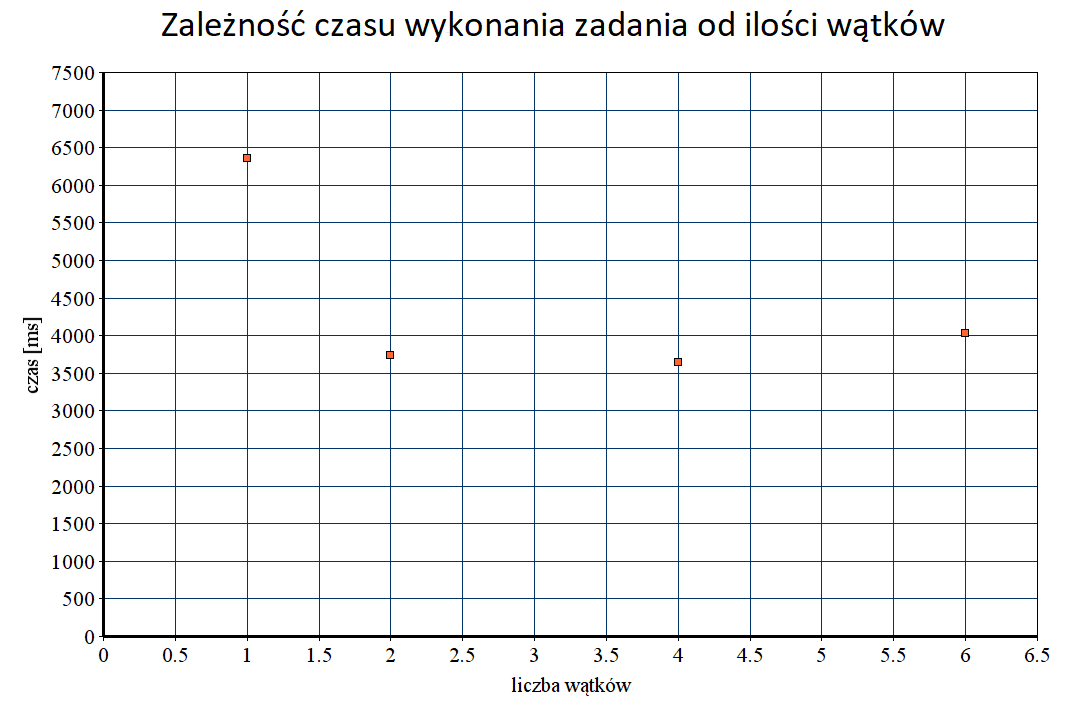
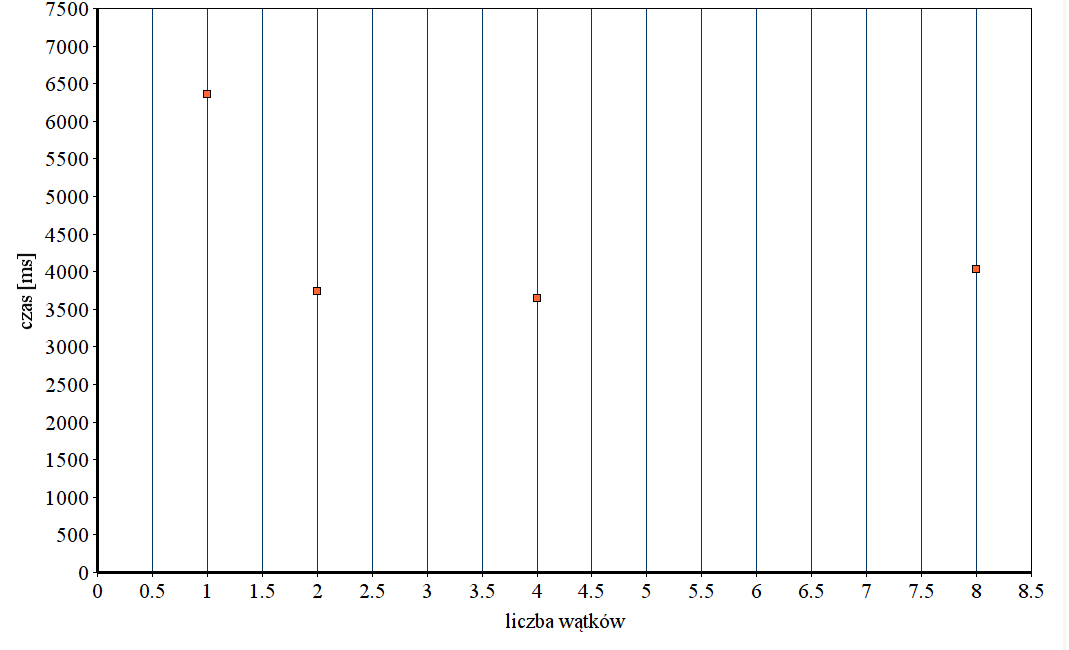
poprawki doku zad1 i zad4

diff --git a/zad1/dokumentacja/dok.tex b/zad1/dokumentacja/dok.tex
@@ -72,7 +72,7 @@ Zrównoleglono rozmywanie rzędów pikseli zadanego zdjęcia:
         }
     }
 \end{lstlisting}
-Zastosowano takie instrukcje OpenMP ponieważ:
+Zastosowano takie instrukcje OpenMP, ponieważ:
 \begin{lista}
  \item for: zrównoleglamy pętlę for (przebieg po wierszach),
  \item num threads: zrównoleglanie na zadaną w argumentach wywołania programu liczbę wątków,
@@ -80,23 +80,23 @@ Zastosowano takie instrukcje OpenMP ponieważ:
  \item private(i,j): każdy wątek dostaje kopię zmiennych przechowujących indeksy aktualnej iteracji.
 \end{lista}
 
-Domyślnie OpenMP rozdzieli pracę nad pętlą równomiernie pomiędzy wszystkie wątki. Ponieważ rozmywanie każdego piksela opiera się na tych samych działaniach (kolejne piksele nie stają się trudniejsze dto przetworzenia) to taki podział nam odpowiada.\\
-
-Zalety tego rozwiązania to: 
-\begin{lista}
- \item Dobrze zrównolegla obliczenia przy zachowaniu prostoty konfiguracji,
- \item Nie wymaga dodatkowych zasobów poza dostępnymi procesorami.
-\end{lista}
-
+Domyślnie OpenMP rozdzieli pracę nad pętlą równomiernie pomiędzy wszystkie wątki. Ponieważ rozmywanie każdego piksela opiera się na tych samych działaniach (kolejne piksele nie stają się trudniejsze do przetworzenia) to taki podział nam odpowiada.\\
 
 Umieszczony poniżej wykres (Rysunek 1) pokazuje zależność czasu działania programu od liczby wątków dla przykładowego obrazu o rozmiarze boku około 2500px na komputerze z dwoma procesorami. \\
-Jak widać czas skrócił się przy zrównolegleniu na tyle wątków, ile jest procesorów. Dalsze zwiększanie liczby wątków może tylko pogorszyć czas, ponieważ musi zostać poświęcony dodatkowy czas na przełączanie konktekstu dla poszczególnych wątków na współdzielonych procesorach.
+Jak widać czas skrócił się przy zrównolegleniu na tyle wątków, ile jest procesorów. Dalsze zwiększanie liczby wątków może tylko pogorszyć czas, ponieważ musi zostać poświęcony dodatkowy czas na przełączanie konktekstu dla poszczególnych wątków na współdzielonych procesorach. \\
+
+Kolejny wykres (Rysunek 2) pokazuje dodatkowo, że mimo posiadania dwóch procesorów i dwóch wątków nie nastąpiło idealnie dwukrotne przespieszenie - wynika to z faktu, że przydzielanie zadań wątkom i zarządzanie nimi także wymaga zasobów.
 \begin{figure}[h]
-\includegraphics[width=15cm]{wykres_zad1}
-\caption{}  
+\includegraphics[scale=0.4]{wykres_zad1}
+\caption{Zależność czasu wykonania zadania od ilości wątków}  
+\end{figure}
+\begin{figure}[h]
+\includegraphics[scale=0.4]{wykres2_zad1}
+\caption{Zależność przyspieszenia wykonywania zadania od ilości wątków w stosunku do niezrównoleglonego zadania}  
 \end{figure}
 \\
 
-Wnioski \\
-Zadanie udało się wykonać - dokonano zrównoleglenia obliczeń. Wykorzystanie OpenMP w tym przypadku (niezależne od siebie obliczenia o tej samej złożoności) było skuteczne i nie wymagało wiele konfiguracji. 
+
+\textbf{Wnioski }\\
+Zadanie udało się wykonać - dokonano zrównoleglenia obliczeń. Wykorzystanie OpenMP w tym przypadku (niezależne od siebie obliczenia o tej samej złożoności) było skuteczne i nie wymagało wiele konfiguracji, co niewątlpiwie jest dużą zaletą. 
 \end{document}

diff --git a/zad4/dokumentacja/dok.tex b/zad4/dokumentacja/dok.tex
@@ -87,7 +87,7 @@ Powyższy fragment kodu przedstawia w~jaki sposób zostało zorganizowane rozdzi
 
 Powyższy wykres przedstawia wyniki czasu obliczeń dla zestawu liczb znajdującym się na serwerze w~pliku \texttt{/home/shared/prir/primes/4.txt} -- odpowiednio dla jednego, dwóch, czterech i~ośmiu wątków. Zgodnie z~oczekiwaniami, czas obliczeń maleje wraz ze zwiększaniem liczby wątków do wykonywania obliczeń.
 
-Na rysunku numer \ref{chart-acceleration} został przedstawiony wykres przyspieszenia obliczeń dla tego zestawu danych. Z~wykresu można odczytać, że wzrost szybkości obliczeń na ośmiu wątkach w~stosunku do obliczeń sekwencyjnych jest około pięciokrotny -- jest to spowodowane tym, iż do zarządzania wątkami oraz~przydziału im zadań, potrzebna jest pewna ilości zasobów (w tym także obliczeniowe).
+Na rysunku numer 2 został przedstawiony wykres przyspieszenia obliczeń dla tego zestawu danych. Z~wykresu można odczytać, że wzrost szybkości obliczeń na ośmiu wątkach w~stosunku do obliczeń sekwencyjnych jest około pięciokrotny -- jest to spowodowane tym, iż do zarządzania wątkami oraz~przydziału im zadań, potrzebna jest pewna ilości zasobów (w tym także obliczeniowe).
 
 \begin{figure}[!htbp]
   \centering
@@ -97,6 +97,6 @@ Na rysunku numer \ref{chart-acceleration} został przedstawiony wykres przyspies
 \end{figure}
 
 \subsubsection*{Wnioski}
-Dzięki zastosowaniu OpenMP, możliwe jest budowanie aplikacji do obliczeń równoległych jest proste -- wystarczy dodać kilka dyrektyw, aby otrzymać zadowalające wyniki. W~tym zadaniu przetestowaliśmy możliwość dynamicznego rozdzielenia zadań pomiędzy wątki, a~co w~naszym przypadku przyniosło oczekiwane rezultaty -- obliczenia zostały zrównoleglone pomiędzy wątki i~dzięki temu zwiększyła się szybkość obliczeń.
+Dzięki zastosowaniu OpenMP, możliwe jest budowanie aplikacji do obliczeń równoległych jest proste -- wystarczy dodać kilka dyrektyw, aby otrzymać zadowalające wyniki. W~tym zadaniu przetestowaliśmy możliwość dynamicznego rozdzielenia zadań pomiędzy wątki, a~co w~naszym przypadku przyniosło oczekiwane rezultaty -- obliczenia zostały zrównoleglone pomiędzy wątki i~dzięki temu zwiększyła się szybkość obliczeń.
 
 \end{document}
